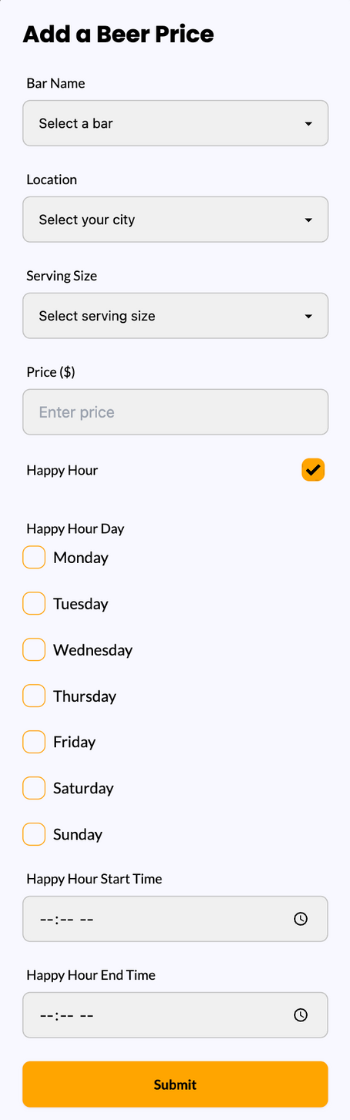
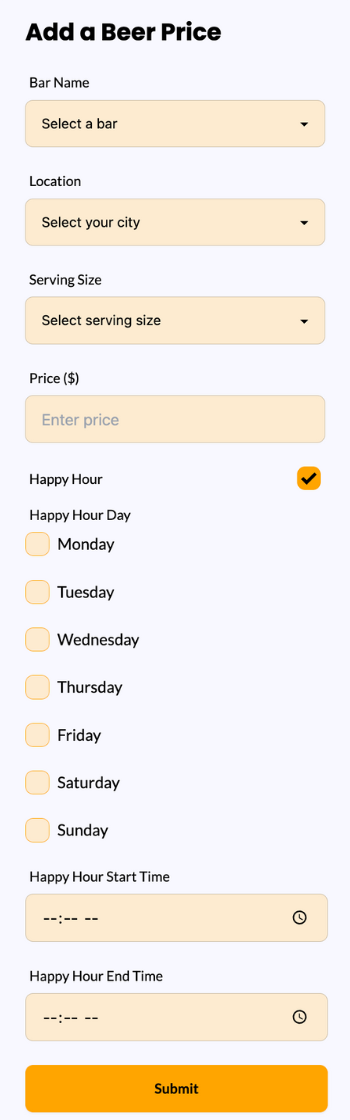
Update about page
Change the example image of the add beer list form to match background colour changes.
Update name of the form header to Add a New Beer Price Form for consistency of what the form is called and does.

Changed region(s): [[0.0571, 0.0, 0.9429, 1.0]]

diff --git a/src/pages/aboutPage.jsx b/src/pages/aboutPage.jsx
@@ -12,9 +12,9 @@ export default function AboutPage() {
             <h4>About</h4>
             <p>
               Beer Scout is here to help you track down the best beer deals in
-              Downtown St. John&#39;s! 🍻 We want you to hang out with your friends
-              and family without stressing about your wallet. So, let us know
-              when you spot a great price—together, we can keep Beer Scout
+              Downtown St. John&#39;s! 🍻 We want you to hang out with your
+              friends and family without stressing about your wallet. So, let us
+              know when you spot a great price—together, we can keep Beer Scout
               growing and our community thriving! Cheers! 🍻✨
             </p>
           </div>
@@ -62,7 +62,7 @@ export default function AboutPage() {
               alt="form for use to submit a beer price"
             />
             <div className="flex flex-col flex-wrap gap-4">
-              <h5>Add a New Bar Price Form</h5>
+              <h5>Add a New Beer Price Form</h5>
               <p>
                 Have a new location or beer price update that you&#39;d like to
                 share? Fill out this form to send us your suggested update.
@@ -108,7 +108,12 @@ export default function AboutPage() {
             <ol className="list-decimal pl-5">
               <li>General Information</li>
               <p>
-                Beer Scout provides information about beer deals and pricing around St. John&#39;s. Our platform relies on user-submitted content, meaning deals and promotions are contributed by the community. We strive to ensure that the information provided is accurate, but we cannot guarantee the accuracy, completeness, or timeliness of any listing.
+                Beer Scout provides information about beer deals and pricing
+                around St. John&#39;s. Our platform relies on user-submitted
+                content, meaning deals and promotions are contributed by the
+                community. We strive to ensure that the information provided is
+                accurate, but we cannot guarantee the accuracy, completeness, or
+                timeliness of any listing.
               </p>
               <br />
               <li>User Responsibilities</li>
